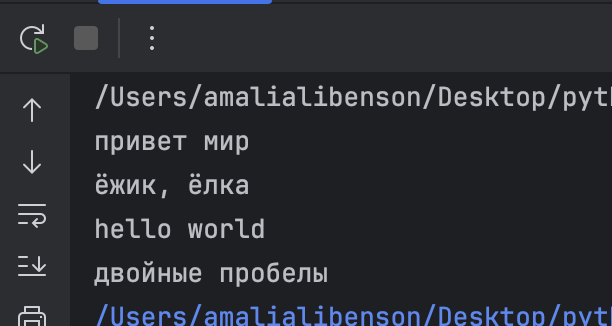
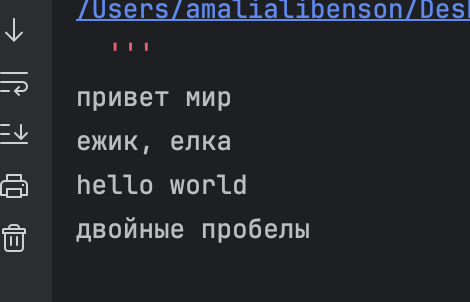
finnaly

diff --git a/src/lib/text.py b/src/lib/text.py
@@ -8,7 +8,7 @@ def normalize(text: str, *, casefold: bool = True, yo2e: bool = True) -> str:
         text = text.casefold()
         #к нижнему регистру привели
     if yo2e == True:
-        text = text.replace('é', 'e').replace('è', 'e').replace('ê', 'e').replace('ë', 'e').replace('ē', 'e').replace('ĕ', 'e').replace('ė', 'e').replace('ę', 'e')
+        text = text.replace('é', 'e').replace('è', 'e').replace('ê', 'e').replace('ë', 'e').replace('ē', 'e').replace('ĕ', 'e').replace('ė', 'e').replace('ę', 'e').replace('ё', 'e')
         #реплейсаем ешки
     spec = {'\t', '\r', '\n'}
     for x in spec:
@@ -75,8 +75,8 @@ def top_n(freq: dict[str, int], n: int = 5) -> list[tuple[str, int]]:
 
 
 
-
-'''n="ПрИвЕт\nМИр\t"
+'''
+n="ПрИвЕт\nМИр\t"
 print(normalize(n))
 
 t="привет мир"

diff --git a/README.md b/README.md
@@ -11,7 +11,7 @@ def normalize(text: str, *, casefold: bool = True, yo2e: bool = True) -> str:
         text = text.casefold()
         #к нижнему регистру привели
     if yo2e == True:
-        text = text.replace('é', 'e').replace('è', 'e').replace('ê', 'e').replace('ë', 'e').replace('ē', 'e').replace('ĕ', 'e').replace('ė', 'e').replace('ę', 'e')
+        text = text.replace('é', 'e').replace('è', 'e').replace('ê', 'e').replace('ë', 'e').replace('ē', 'e').replace('ĕ', 'e').replace('ė', 'e').replace('ę', 'e').replace('ё', 'e')
         #реплейсаем ешки
     spec = {'\t', '\r', '\n'}
     for x in spec:
